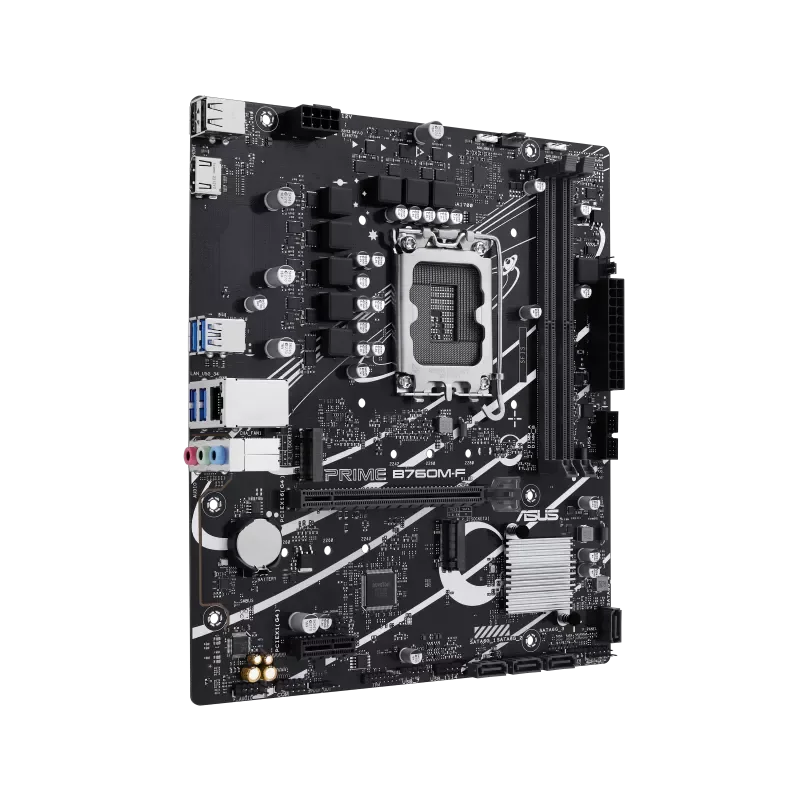
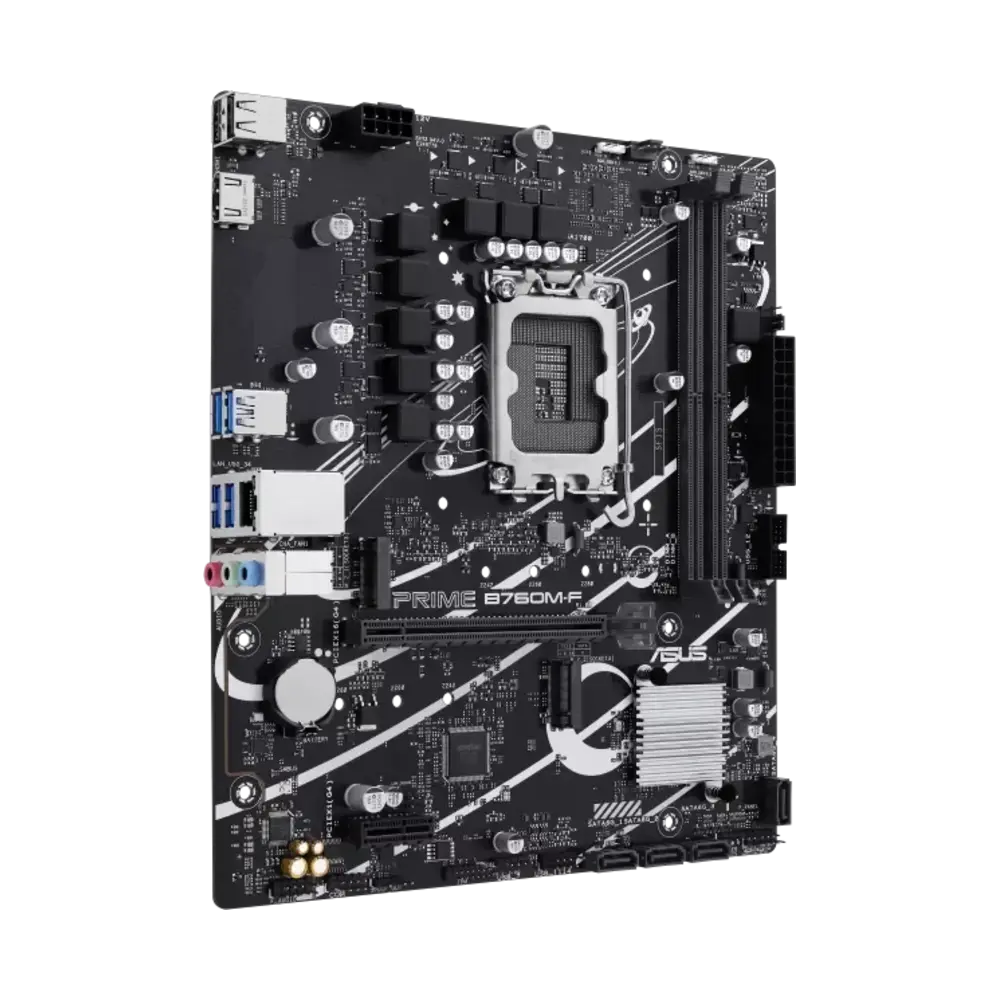
Standardize motherboard product photos

Changed region(s): [[0.1875, 0.0938, 0.8125, 0.9062]]

diff --git a/PROJECT_STATUS.md b/PROJECT_STATUS.md
@@ -2,29 +2,23 @@
 
 Last updated: 2026-11-07
 
-## Замена фотографий всех WD Purple (2026-11-07)
+## Полная нормализация фотографий материнских плат (2026-11-07)
 
-- Проверены все товары Western Digital Purple в каталоге HDD: `hdd-001` (1 TB), `hdd-002` (10 TB), `hdd-003` (14 TB), `hdd-004` (2 TB), `hdd-005` (8 TB), `hdd-006` (4 TB) и `hdd-007` (6 TB).
-- Заменены все 7 основных фотографий `main.webp`. Для каждого объёма использована отдельная реальная фотография физического HDD с металлическим корпусом и читаемой фиолетовой этикеткой WD Purple; общая фотография между моделями не использовалась.
-- Источники точных фотографий: FixPart (1 TB), Kaspi (2 TB), Sofmap/Recole (4 TB), Yandex Market (6 TB), eBay (8 TB), Noon (10 TB) и GuvenlikBayii (14 TB). Для 10 TB и 14 TB соответствие объёма и модели дополнительно проверено по надписи на этикетке (`WD101PURZ` и `WD140PURZ`).
-- Все файлы пересохранены локально в WebP 1000×1000 с прозрачным фоном, центрированием и одинаковой визуальной высотой диска. Коробки, рекламные элементы, водяные знаки, нарисованные камеры и искусственные тени не подключались.
-- Пути в `products.json` и `rgw_page_hdd.html` сохранены без изменений: универсальная страница товара продолжает использовать локальный `images/products/hdd-00X/main.webp`. Цены, названия, объёмы, характеристики, ID, SKU, фильтры, сортировка, `price.csv`, JavaScript и фотографии других HDD/SSD не изменялись.
+- Проверены все 16 записей категории «Материнские платы», карточки `rgw_page_motherboards.html`, записи `products.json` и все 17 подключённых локальных WebP-файлов (11 основных кадров и 6 дополнительных кадров для `mb-001`/`mb-014`).
+- Все 17 подключённых изображений пересохранены как WebP 1000×1000 с настоящим прозрачным альфа-каналом; платы центрированы, масштабированы пропорционально до единого максимального размера около 82% холста и не обрезаны.
+- Заменены 5 основных фотографий: `mb-006` — Gigabyte Z890M AORUS ELITE WIFI7 ICE без коробки, `mb-010` — Gigabyte B760M K DDR4 без коробки, `mb-011` — точная ASUS H610M-G D4 вместо ошибочной ASUS B350 Mining Expert, `mb-015` — Gigabyte Z790 D DDR5 без коробки, `mb-016` — Gigabyte Z890 UD без коробки.
+- Точные существующие изображения `mb-001`, `mb-002`, `mb-003`, `mb-004`, `mb-013` и `mb-014` сохранены по моделям и только приведены к общему прозрачному холсту/масштабу.
+- Для `mb-006`, `mb-010`, `mb-015` и `mb-016` сохранены только сами платы из официальных ассетов производителя; упаковка, рекламные композиции и посторонний фон в подключённые кадры не попали. Для `mb-006` сохранены цвета белой версии ICE.
+- Точная модель ASUS подтверждена как `H610M-G D4` по маркировке на официальной плате; название, характеристики, цена, ID и SKU каталога не менялись.
+- Пять заглушек сохранены из-за отсутствия полного артикула: `mb-005` (Gigabyte H610 DDR4), `mb-007` (Esonik H61), `mb-008` (Esonik H610), `mb-009` (Esonik H81) и `mb-012` (Gigabyte B760 D5). Похожие модели не подставлялись.
+- Обновлён `COMPONENTS_PHOTO_PROGRESS.json`: источники и причины замен зафиксированы по каждому ID. Категория теперь отражена как 16 товаров: 11 с фото и 5 с заглушками.
 
 ### Проверки этапа
 
-- Проверены 7 физических файлов: формат WebP, размер 1000×1000, наличие alpha-канала и неполная непрозрачность холста.
-- Визуально проверены все 7 дисков: на этикетках видны соответствующие объёмы 1/2/4/6/8/10/14 TB; изображения не содержат прежнюю иконку камеры.
-- Проверены записи `products.json`, карточки `rgw_page_hdd.html` и локальные пути галереи; дополнительных старых изображений WD Purple в массивах `images` нет.
-- Для пользовательской визуальной проверки отдельно рекомендованы `hdd-002` (10 TB, фотография бывшего в употреблении диска) и `hdd-003` (14 TB, ракурс под углом); технических ошибок загрузки не обнаружено.
-
-Источники фотографий:
-- 1 TB: https://fixpart.nl/product/western-digital-wd10purz-sata-lii-harde-schijf-35
-- 2 TB: https://kaspi.kz/shop/p/hdd-western-digital-purple-wd20purz-2000-gb-6800681/
-- 4 TB: https://used.sofmap.com/r/item/2133055806827
-- 6 TB: https://market.yandex.ru/product--zhestkii-disk-western-digital-wd-red-pro-6-tb-wd6003ffbx/1779564919?sku=47419712&uniqueId=1067033
-- 8 TB: https://www.ebay.com/itm/226918855457
-- 10 TB: https://www.noon.com/egypt-en/wd101purz-10tb-7200-rpm-256mb-cache-sata-6-0gb-s-3-5-internal-hard-drive-purple/N47701100A/p/
-- 14 TB: https://www.guvenlikbayii.com/image/cache/data/urunler/hard-disk/wd14tbdiskfiyat-600x600.jpg
+- Все 17 физических файлов открываются как валидный WebP 1000×1000; четыре угла каждого файла прозрачны.
+- Визуально проверены центрирование, пропорции, ориентация (сокет сверху, DIMM справа, PCIe снизу, задняя панель слева), отсутствие коробок и отсутствие белых/цветных прямоугольных подложек.
+- Проверены все пути `image/images` из `products.json` и основные ссылки 16 карточек `rgw_page_motherboards.html`; `product.html` и `product.js` не изменялись, поэтому существующая галерея использует обновлённые локальные файлы.
+- Цены, характеристики, названия, ID, SKU, `price.csv`, фильтры, сортировка, CSS/JS, размеры карточек и другие категории не изменялись.
 
 ## Обработка фотографий мониторов Redmi (2026-11-04)
 
